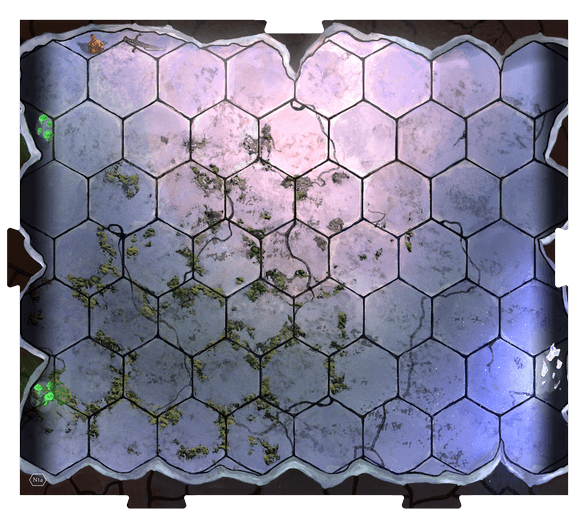
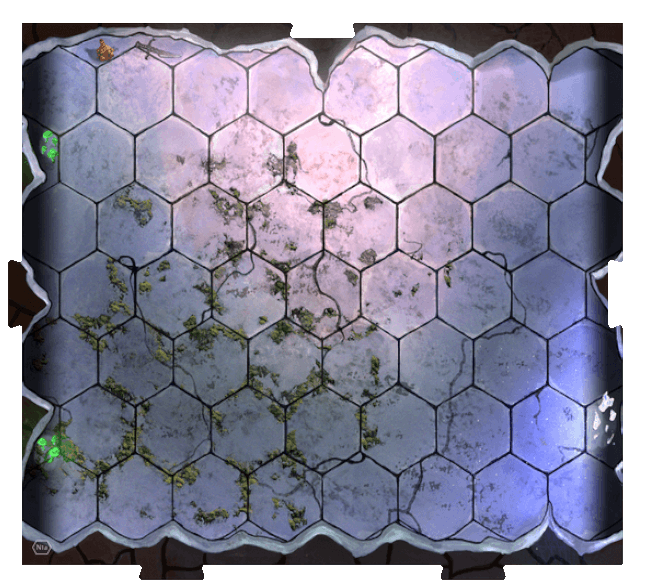
Adds N tile set and normalizes images

diff --git a/static/scss/main.scss b/static/scss/main.scss
@@ -43,7 +43,7 @@ $hexRotation: 60deg;
         }
 
         $tiles:
-            ('a1a', -1px, 46px)
+            ('a1a', -2px, 41px)
             ('a1b', -19px, 46px)
             ('a2a', -3px, 46px)
             ('a2b', -18px, 46px)
@@ -113,6 +113,9 @@ $hexRotation: 60deg;
 
             ('m1a', -20px, -45px)
             ('m1b', -22px, -46px)
+
+            ('n1a', -19px, -48px)
+            ('n1b', -19px, -48px)
         ;
         @each $tile in $tiles {
             $key: nth($tile, 1);
